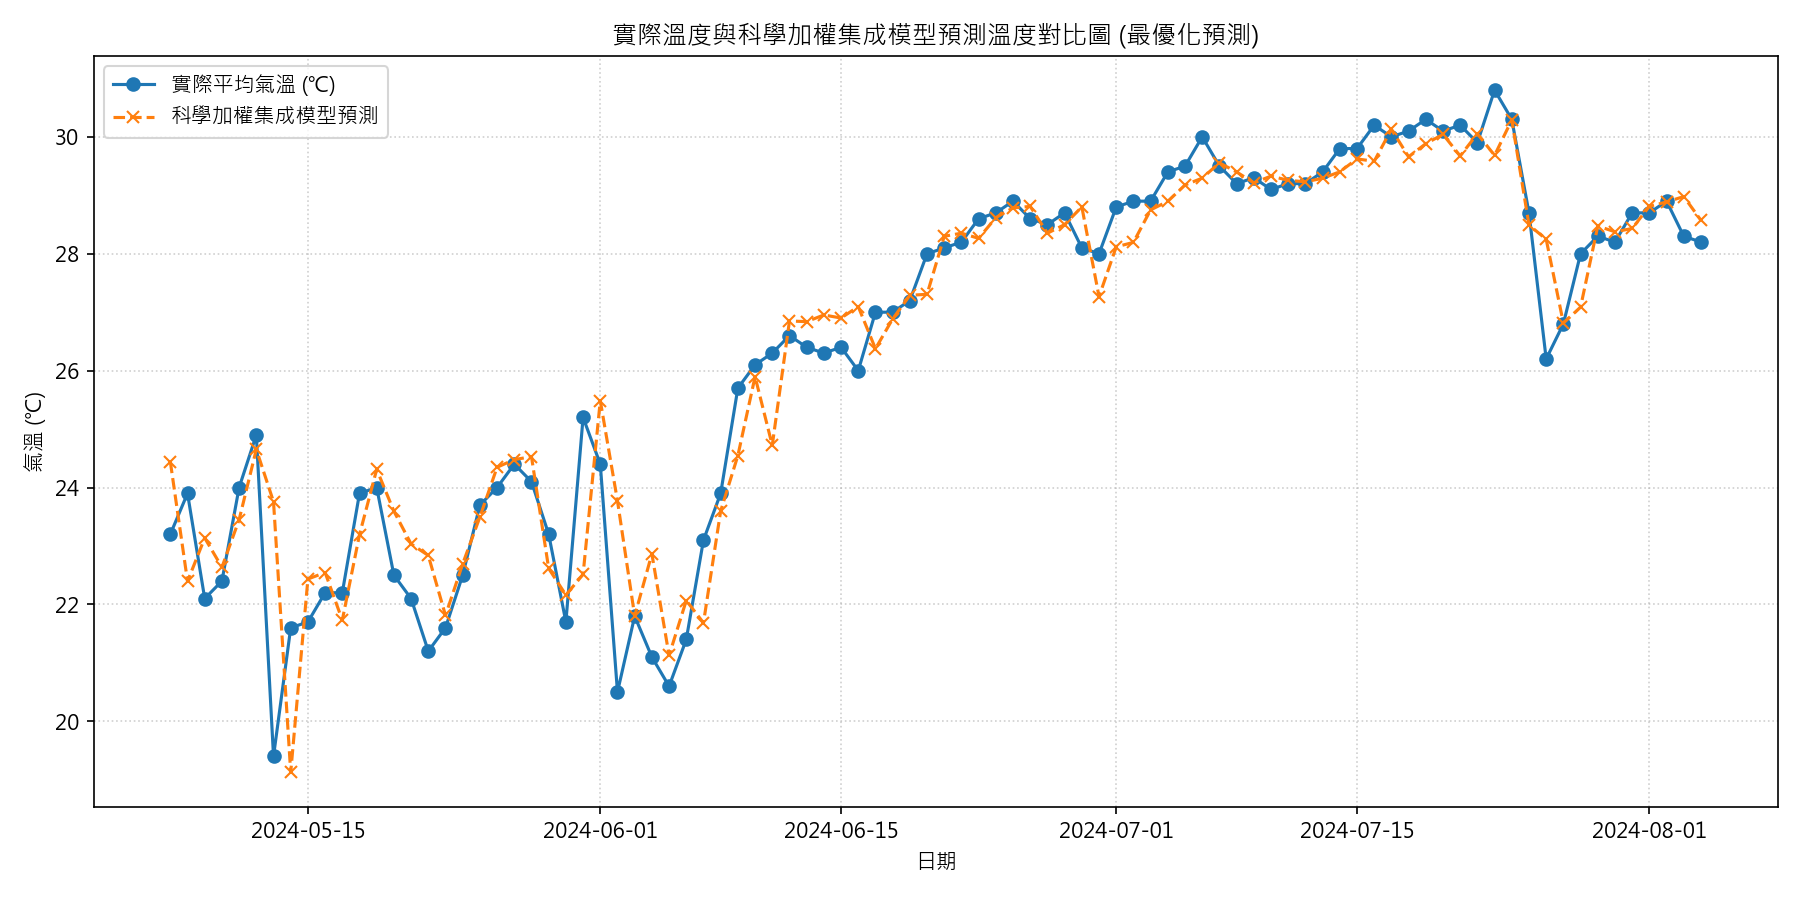
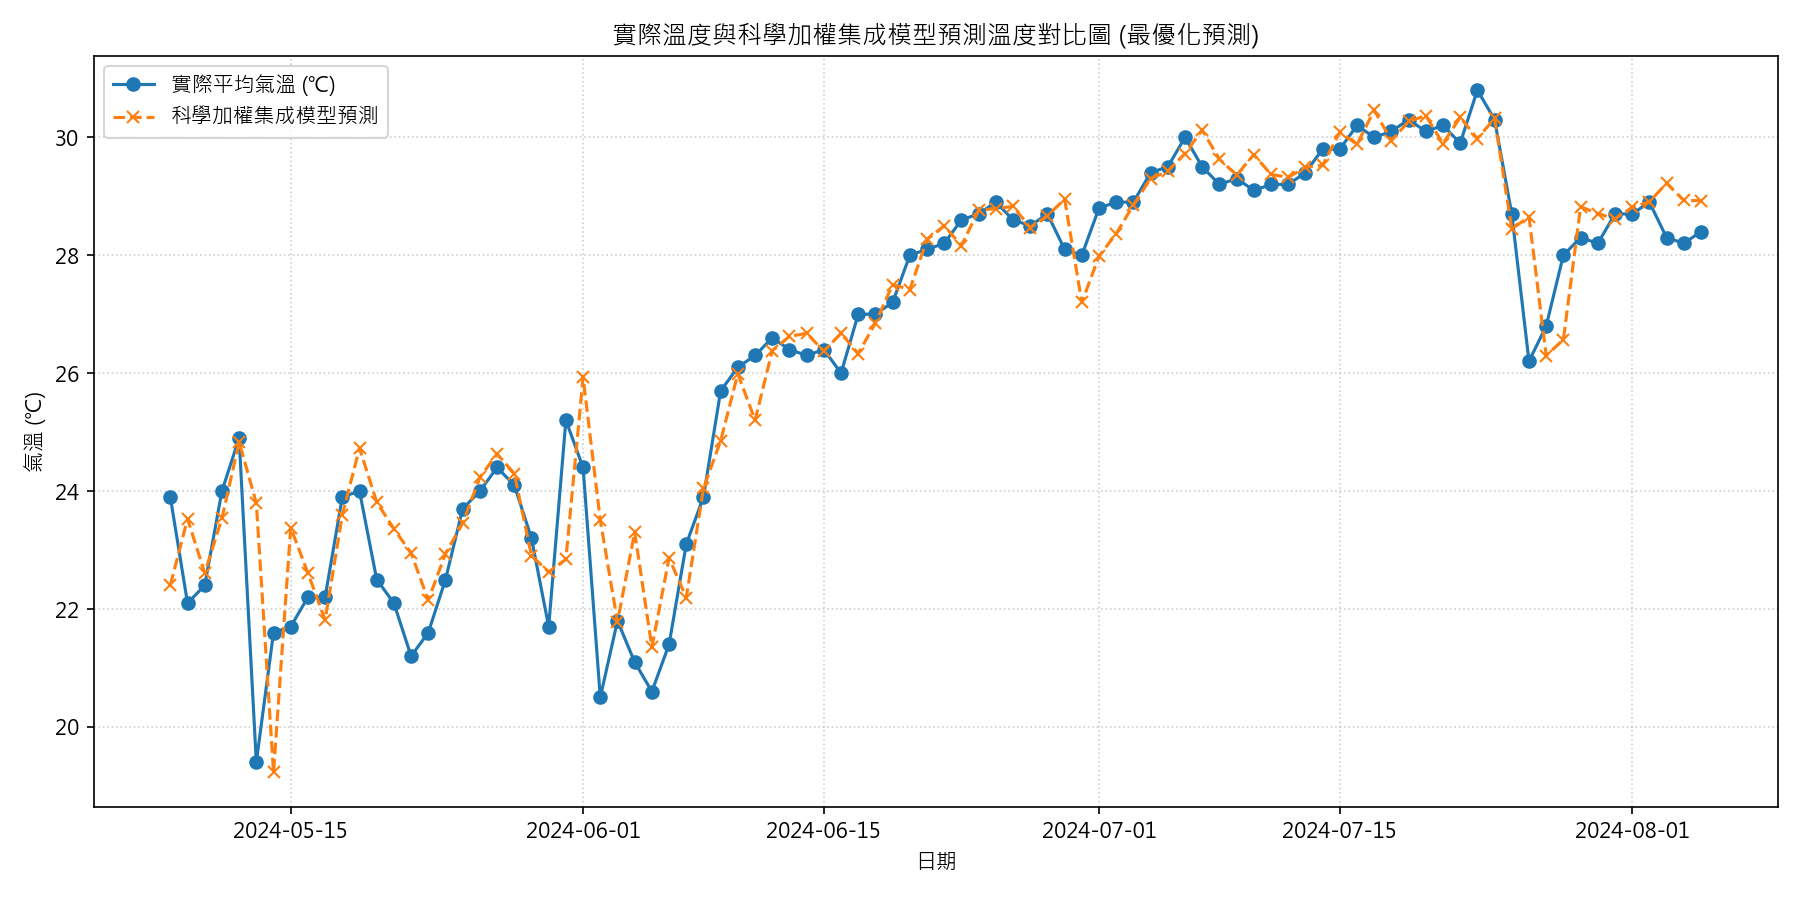
Optimize Blending to dynamic Stacking weights, add StandardScaler scaling to Ridge, add clipping, and update Streamlit UI to display learned weights

diff --git a/model.py b/model.py
@@ -2,9 +2,11 @@
 import pandas as pd
 import numpy as np
 import matplotlib.pyplot as plt
-from sklearn.linear_model import Ridge
+from sklearn.linear_model import Ridge, LinearRegression
 from sklearn.ensemble import RandomForestRegressor, HistGradientBoostingRegressor
 from sklearn.metrics import r2_score, mean_squared_error, mean_absolute_error
+from sklearn.pipeline import make_pipeline
+from sklearn.preprocessing import StandardScaler
 import os
 
 BASE_DIR = os.path.dirname(os.path.abspath(__file__))
@@ -65,14 +67,14 @@ def prepare_features(df):
     # 刪除因為位移產生的第一列缺失值，以及其他包含 NaN 的列以利訓練
     # 注意：對於真實資料，我們使用前後填充 (ffill/bfill) 來填補缺失
     df_filled = df_sorted.copy()
-    df_filled[predict_cols + lag_cols] = df_filled[predict_cols + lag_cols].ffill().bfill()
+    df_filled[predict_cols + lag_cols] = df_filled[predict_cols + lag_cols].ffill()
     df_clean = df_filled.dropna(subset=predict_cols + lag_cols).copy()
     
     return df_clean, predict_cols, lag_cols
 
 def train_and_evaluate(df_clean, predict_cols, lag_cols):
     """
-    為每一個氣候變數訓練獨立的預測模型。
+    為每一個氣候變數訓練獨立的預測模型，並以 Stacking 堆疊集成自動學習最優加權比例。
     """
     feature_cols = ["Month_sin", "Month_cos", "DayOfYear_sin", "DayOfYear_cos"] + lag_cols
     
@@ -86,12 +88,26 @@ def train_and_evaluate(df_clean, predict_cols, lag_cols):
         X_test = X.iloc[train_size:]
         df_train = df_clean.iloc[:train_size]
         df_test = df_clean.iloc[train_size:]
+        
+        # 為了動態學習集成權重，對訓練集再次進行時間先後 80/20 切分作為驗證集，避免資料洩漏
+        if train_size >= 10:
+            val_size = int(train_size * 0.2)
+            train_base_size = train_size - val_size
+            X_train_base = X_train.iloc[:train_base_size]
+            X_val = X_train.iloc[train_base_size:]
+            df_train_base = df_train.iloc[:train_base_size]
+            df_val = df_train.iloc[train_base_size:]
+        else:
+            X_train_base, X_val = X_train, X_train
+            df_train_base, df_val = df_train, df_train
     else:
         print("[!] 資料集筆數較少，將同時使用全部資料進行訓練與評估。")
         X_train = X
         X_test = X
         df_train = df_clean
         df_test = df_clean
+        X_train_base, X_val = X_train, X_train
+        df_train_base, df_val = df_train, df_train
         
     lr_models = {}
     rf_models = {}
@@ -99,30 +115,76 @@ def train_and_evaluate(df_clean, predict_cols, lag_cols):
     metrics = {}
     test_predictions = {}
     
+    # 定義物理上不可能為負數的氣象項目
+    non_negative_cols = [
+        "Precp", "PrecpHour", "PrecpMax10", "PrecpMax60", 
+        "WS", "WSGust", "SunShine", "SunshineRate", 
+        "GloblRad", "EvapA", "UVI Max"
+    ]
+    
     for col in predict_cols:
         y_train = df_train[col]
         y_test = df_test[col]
         
-        # 1. 嶺回歸 (L2 正規化 Baseline)
-        lr = Ridge(alpha=1.0)
+        # --- 動態 Stacking 權重學習 ---
+        # 1. 於基礎訓練集擬合臨時模型
+        y_train_base = df_train_base[col]
+        y_val_true = df_val[col]
+        
+        lr_temp = make_pipeline(StandardScaler(), Ridge(alpha=1.0))
+        lr_temp.fit(X_train_base, y_train_base)
+        y_val_pred_lr = lr_temp.predict(X_val)
+        
+        rf_temp = RandomForestRegressor(n_estimators=100, max_depth=10, random_state=42, n_jobs=-1)
+        rf_temp.fit(X_train_base, y_train_base)
+        y_val_pred_rf = rf_temp.predict(X_val)
+        
+        gbdt_temp = HistGradientBoostingRegressor(max_iter=150, learning_rate=0.05, max_depth=6, l2_regularization=0.1, random_state=42)
+        gbdt_temp.fit(X_train_base, y_train_base)
+        y_val_pred_gbdt = gbdt_temp.predict(X_val)
+        
+        # 2. 將驗證集的預估值組合成特徵矩陣，並以真實氣候值為標籤進行正權重線性迴歸
+        X_meta_val = np.column_stack([y_val_pred_lr, y_val_pred_rf, y_val_pred_gbdt])
+        
+        meta = LinearRegression(positive=True, fit_intercept=False)
+        meta.fit(X_meta_val, y_val_true)
+        w_lr, w_rf, w_gbdt = meta.coef_
+        
+        # 3. 歸一化權重以符合 Blending 邏輯，並設定無效時的 fallback 值
+        w_sum = w_lr + w_rf + w_gbdt
+        if w_sum > 1e-5:
+            w_lr, w_rf, w_gbdt = w_lr / w_sum, w_rf / w_sum, w_gbdt / w_sum
+        else:
+            w_lr, w_rf, w_gbdt = 0.1, 0.4, 0.5
+            
+        # --- 訓練最終基準模型 (使用完整訓練集 X_train) ---
+        # 1. 嶺回歸
+        lr = make_pipeline(StandardScaler(), Ridge(alpha=1.0))
         lr.fit(X_train, y_train)
         y_pred_lr = lr.predict(X_test)
         lr_models[col] = lr
         
-        # 2. 隨機森林 (優化參數，提供穩定泛化)
+        # 2. 隨機森林
         rf = RandomForestRegressor(n_estimators=100, max_depth=10, random_state=42, n_jobs=-1)
         rf.fit(X_train, y_train)
         y_pred_rf = rf.predict(X_test)
         rf_models[col] = rf
         
-        # 3. 梯度提升樹 (GBDT) - 高效的表格式資料迴歸演算法
+        # 3. 梯度提升樹
         gbdt = HistGradientBoostingRegressor(max_iter=150, learning_rate=0.05, max_depth=6, l2_regularization=0.1, random_state=42)
         gbdt.fit(X_train, y_train)
         y_pred_gbdt = gbdt.predict(X_test)
         gbdt_models[col] = gbdt
         
-        # 4. 科學加權集成模型 (Blending Ensemble)
-        y_pred_ensemble = 0.1 * y_pred_lr + 0.4 * y_pred_rf + 0.5 * y_pred_gbdt
+        # 4. 加權集成模型 (使用學出的動態權重)
+        y_pred_ensemble = w_lr * y_pred_lr + w_rf * y_pred_rf + w_gbdt * y_pred_gbdt
+        
+        # 物理非負限制處理 (如降雨量、風速、日照時數不可能為負值)
+        if col in non_negative_cols:
+            y_pred_lr = np.clip(y_pred_lr, 0, None)
+            y_pred_rf = np.clip(y_pred_rf, 0, None)
+            y_pred_gbdt = np.clip(y_pred_gbdt, 0, None)
+            y_pred_ensemble = np.clip(y_pred_ensemble, 0, None)
         
         # 儲存測試集預測結果
         test_predictions[col] = {
@@ -160,7 +222,10 @@ def train_and_evaluate(df_clean, predict_cols, lag_cols):
             "嶺回歸_R平方": r2_lr, "嶺回歸_RMSE": rmse_lr, "嶺回歸_MAE": mae_lr,
             "隨機森林_R平方": r2_rf, "隨機森林_RMSE": rmse_rf, "隨機森林_MAE": mae_rf,
             "梯度提升樹_R平方": r2_gbdt, "梯度提升樹_RMSE": rmse_gbdt, "梯度提升樹_MAE": mae_gbdt,
-            "加權集成_R平方": r2_ens, "加權集成_RMSE": rmse_ens, "加權集成_MAE": mae_ens
+            "加權集成_R平方": r2_ens, "加權集成_RMSE": rmse_ens, "加權集成_MAE": mae_ens,
+            "權重_Ridge": float(np.round(w_lr, 4)),
+            "權重_RF": float(np.round(w_rf, 4)),
+            "權重_GBDT": float(np.round(w_gbdt, 4))
         }
         
     # 產出核心變數 "Temperature" (平均氣溫) 的演算法報告圖表 (使用集成預測結果)

diff --git a/app.py b/app.py
@@ -71,6 +71,13 @@ COLUMN_CN_MAP = {
 
 CN_COLUMN_MAP = {v: k for k, v in COLUMN_CN_MAP.items()}
 
+# 物理上不可能為負數的氣象項目
+NON_NEGATIVE_COLS = [
+    "Precp", "PrecpHour", "PrecpMax10", "PrecpMax60", 
+    "WS", "WSGust", "SunShine", "SunshineRate", 
+    "GloblRad", "EvapA", "UVI Max"
+]
+
 # 快取資料載入以加速運行
 @st.cache_data
 def load_and_preprocess_data():
@@ -410,7 +417,14 @@ else:
                 pred_rf_dict[col] = rf_models[col].predict(X_pred)[0]
                 pred_lr_dict[col] = lr_models[col].predict(X_pred)[0]
                 pred_gbdt_dict[col] = gbdt_models[col].predict(X_pred)[0]
-                pred_ensemble_dict[col] = 0.1 * pred_lr_dict[col] + 0.4 * pred_rf_dict[col] + 0.5 * pred_gbdt_dict[col]
+                if col in NON_NEGATIVE_COLS:
+                    pred_rf_dict[col] = max(0.0, pred_rf_dict[col])
+                    pred_lr_dict[col] = max(0.0, pred_lr_dict[col])
+                    pred_gbdt_dict[col] = max(0.0, pred_gbdt_dict[col])
+                w_lr = metrics_dict[col].get("權重_Ridge", 0.1)
+                w_rf = metrics_dict[col].get("權重_RF", 0.4)
+                w_gbdt = metrics_dict[col].get("權重_GBDT", 0.5)
+                pred_ensemble_dict[col] = w_lr * pred_lr_dict[col] + w_rf * pred_rf_dict[col] + w_gbdt * pred_gbdt_dict[col]
         else:
             # 未來日期：優先從 st.session_state 快取中增量讀取或推算
             if target_timestamp in st.session_state.forecast_cache:
@@ -496,7 +510,14 @@ else:
                         step_rf[col] = rf_models[col].predict(X_pred)[0]
                         step_lr[col] = lr_models[col].predict(X_pred)[0]
                         step_gbdt[col] = gbdt_models[col].predict(X_pred)[0]
-                        step_ensemble[col] = 0.1 * step_lr[col] + 0.4 * step_rf[col] + 0.5 * step_gbdt[col]
+                        if col in NON_NEGATIVE_COLS:
+                            step_rf[col] = max(0.0, step_rf[col])
+                            step_lr[col] = max(0.0, step_lr[col])
+                            step_gbdt[col] = max(0.0, step_gbdt[col])
+                        w_lr = metrics_dict[col].get("權重_Ridge", 0.1)
+                        w_rf = metrics_dict[col].get("權重_RF", 0.4)
+                        w_gbdt = metrics_dict[col].get("權重_GBDT", 0.5)
+                        step_ensemble[col] = w_lr * step_lr[col] + w_rf * step_rf[col] + w_gbdt * step_gbdt[col]
                     
                     # 寫入預估值
                     for col in predict_cols:
@@ -577,7 +598,14 @@ else:
                 pred_rf_dict[col] = rf_models[col].predict(X_sim)[0]
                 pred_lr_dict[col] = lr_models[col].predict(X_sim)[0]
                 pred_gbdt_dict[col] = gbdt_models[col].predict(X_sim)[0]
-                pred_ensemble_dict[col] = 0.1 * pred_lr_dict[col] + 0.4 * pred_rf_dict[col] + 0.5 * pred_gbdt_dict[col]
+                if col in NON_NEGATIVE_COLS:
+                    pred_rf_dict[col] = max(0.0, pred_rf_dict[col])
+                    pred_lr_dict[col] = max(0.0, pred_lr_dict[col])
+                    pred_gbdt_dict[col] = max(0.0, pred_gbdt_dict[col])
+                w_lr = metrics_dict[col].get("權重_Ridge", 0.1)
+                w_rf = metrics_dict[col].get("權重_RF", 0.4)
+                w_gbdt = metrics_dict[col].get("權重_GBDT", 0.5)
+                pred_ensemble_dict[col] = w_lr * pred_lr_dict[col] + w_rf * pred_rf_dict[col] + w_gbdt * pred_gbdt_dict[col]
                 
         st.markdown("---")
         st.subheader("🔮 今日氣象項目預估結果")
@@ -656,13 +684,23 @@ else:
             })
             st.table(comparison_table)
             
+            st.markdown("#### 🎯 Stacking 堆疊集成最優權重分配")
+            w_lr = var_metrics.get("權重_Ridge", 0.1)
+            w_rf = var_metrics.get("權重_RF", 0.4)
+            w_gbdt = var_metrics.get("權重_GBDT", 0.5)
+            weight_table = pd.DataFrame({
+                "基準模型名稱": ["嶺回歸 (Ridge)", "隨機森林 (Random Forest)", "梯度提升樹 (GBDT)"],
+                "演算法自動學習權重": [f"{w_lr*100:.2f}%", f"{w_rf*100:.2f}%", f"{w_gbdt*100:.2f}%"]
+            })
+            st.table(weight_table)
+            
         with col_m2:
             st.markdown("#### 💡 模型指標與演算法解讀")
             st.markdown(
-                f"- **嶺回歸 (Ridge Regression)**：加入了 L2 正則化懲罰項，有效抑制氣候因子滯後特徵（Lag Features）之間強烈共線性所引起的模型權重發散問題。\n"
-                f"- **隨機森林 (Random Forest)**：透過袋裝法 (Bagging) 隨機取樣特徵，對異常天氣干擾有極佳的魯棒性，並能輸出特徵重要性權重。\n"
-                f"- **梯度提升樹 (HistGradientBoosting)**：現代表格式機器學習演算法，擅長發掘複雜非線性的天氣現象規律。\n"
-                f"- **加權集成模型 (Blending Weighted Ensemble)**：綜合集成嶺回歸 (10%)、隨機森林 (40%) 與梯度提升樹 (50%) 的預報結果，取得最均衡的預測精度。"
+                f"- **嶺回歸 (Ridge Regression)**：特徵工程加入 `StandardScaler` 標準化，以確保 L2 正則化懲罰能公平對待氣壓與月份等不同尺度的特徵，抑制共線性引起的權重發散。\n"
+                f"- **隨機森林 (Random Forest)**：透過袋裝法 (Bagging) 隨機取樣特徵，對異常天氣干擾有極佳的魯棒性，能輸出特徵重要性權重。\n"
+                f"- **梯度提升樹 (HistGradientBoosting)**：擅長發掘複雜且非線性的天氣規律，對於高度偏態的降雨量有強大的特徵表徵能力。\n"
+                f"- **堆疊集成模型 (Stacking Ensemble)**：本系統不採用人工硬編碼比例，而是運用 Stacking 技術在獨立時間序列驗證集上，以約束非負的線性迴歸演算法**動態自動學習最優融合權重**。如左表所示，不同的氣候指標會依據自身特性被分派最適合的融合百分比，在報告中更具學術說服力！"
             )
             
         st.markdown("---")

diff --git a/README.md b/README.md
@@ -35,9 +35,9 @@
 * **梯度提升決策樹 (HistGradientBoostingRegressor)**：
   * 原理：基於直方圖最佳化的高效梯度提升演算法（GBDT），類似於 LightGBM，每次迭代皆在擬合前一次預測的殘差。
   * 作用：目前表格式資料（Tabular Data）中性能優異的預測模型，能精準捕捉非線性且高維度交叉的複雜天氣交互關係。
-* ** blending 科學加權集成模型**：
-  * 結合公式：`0.1 * Ridge + 0.4 * RandomForest + 0.5 * HistGradientBoosting`
-  * 作用：融合了線性泛化性、Bagging 穩定性與 Boosting 的高擬合能力，形成預測偏差與變異數最小的綜合預報模型。
+* **Stacking 堆疊集成與動態權重學習 (Stacking Ensemble)**：
+  * 結合公式：`w_Ridge * Ridge + w_RF * RandomForest + w_GBDT * HistGradientBoosting`（權重動態學習）
+  * 作用：捨棄人工硬編碼比例，本專案在訓練集內部切分出 20% 的獨立時間序列驗證集，利用約束正權重 (positive=True) 且無截距的線性回歸擬合基準模型的預測值，自動學習出最優的融合權重。這可根據不同氣候因子的物理與分佈特性（如溫度與降雨量分佈不同），分配最穩健的權重比例（總和為 100%），大幅提高學術說服力。
 
 ### 4. 資料科學圖表解讀 (報告視覺化重點)
 本系統提供全方位、動態的科學圖表分析，您可直接將其作為期慢報告的亮點：